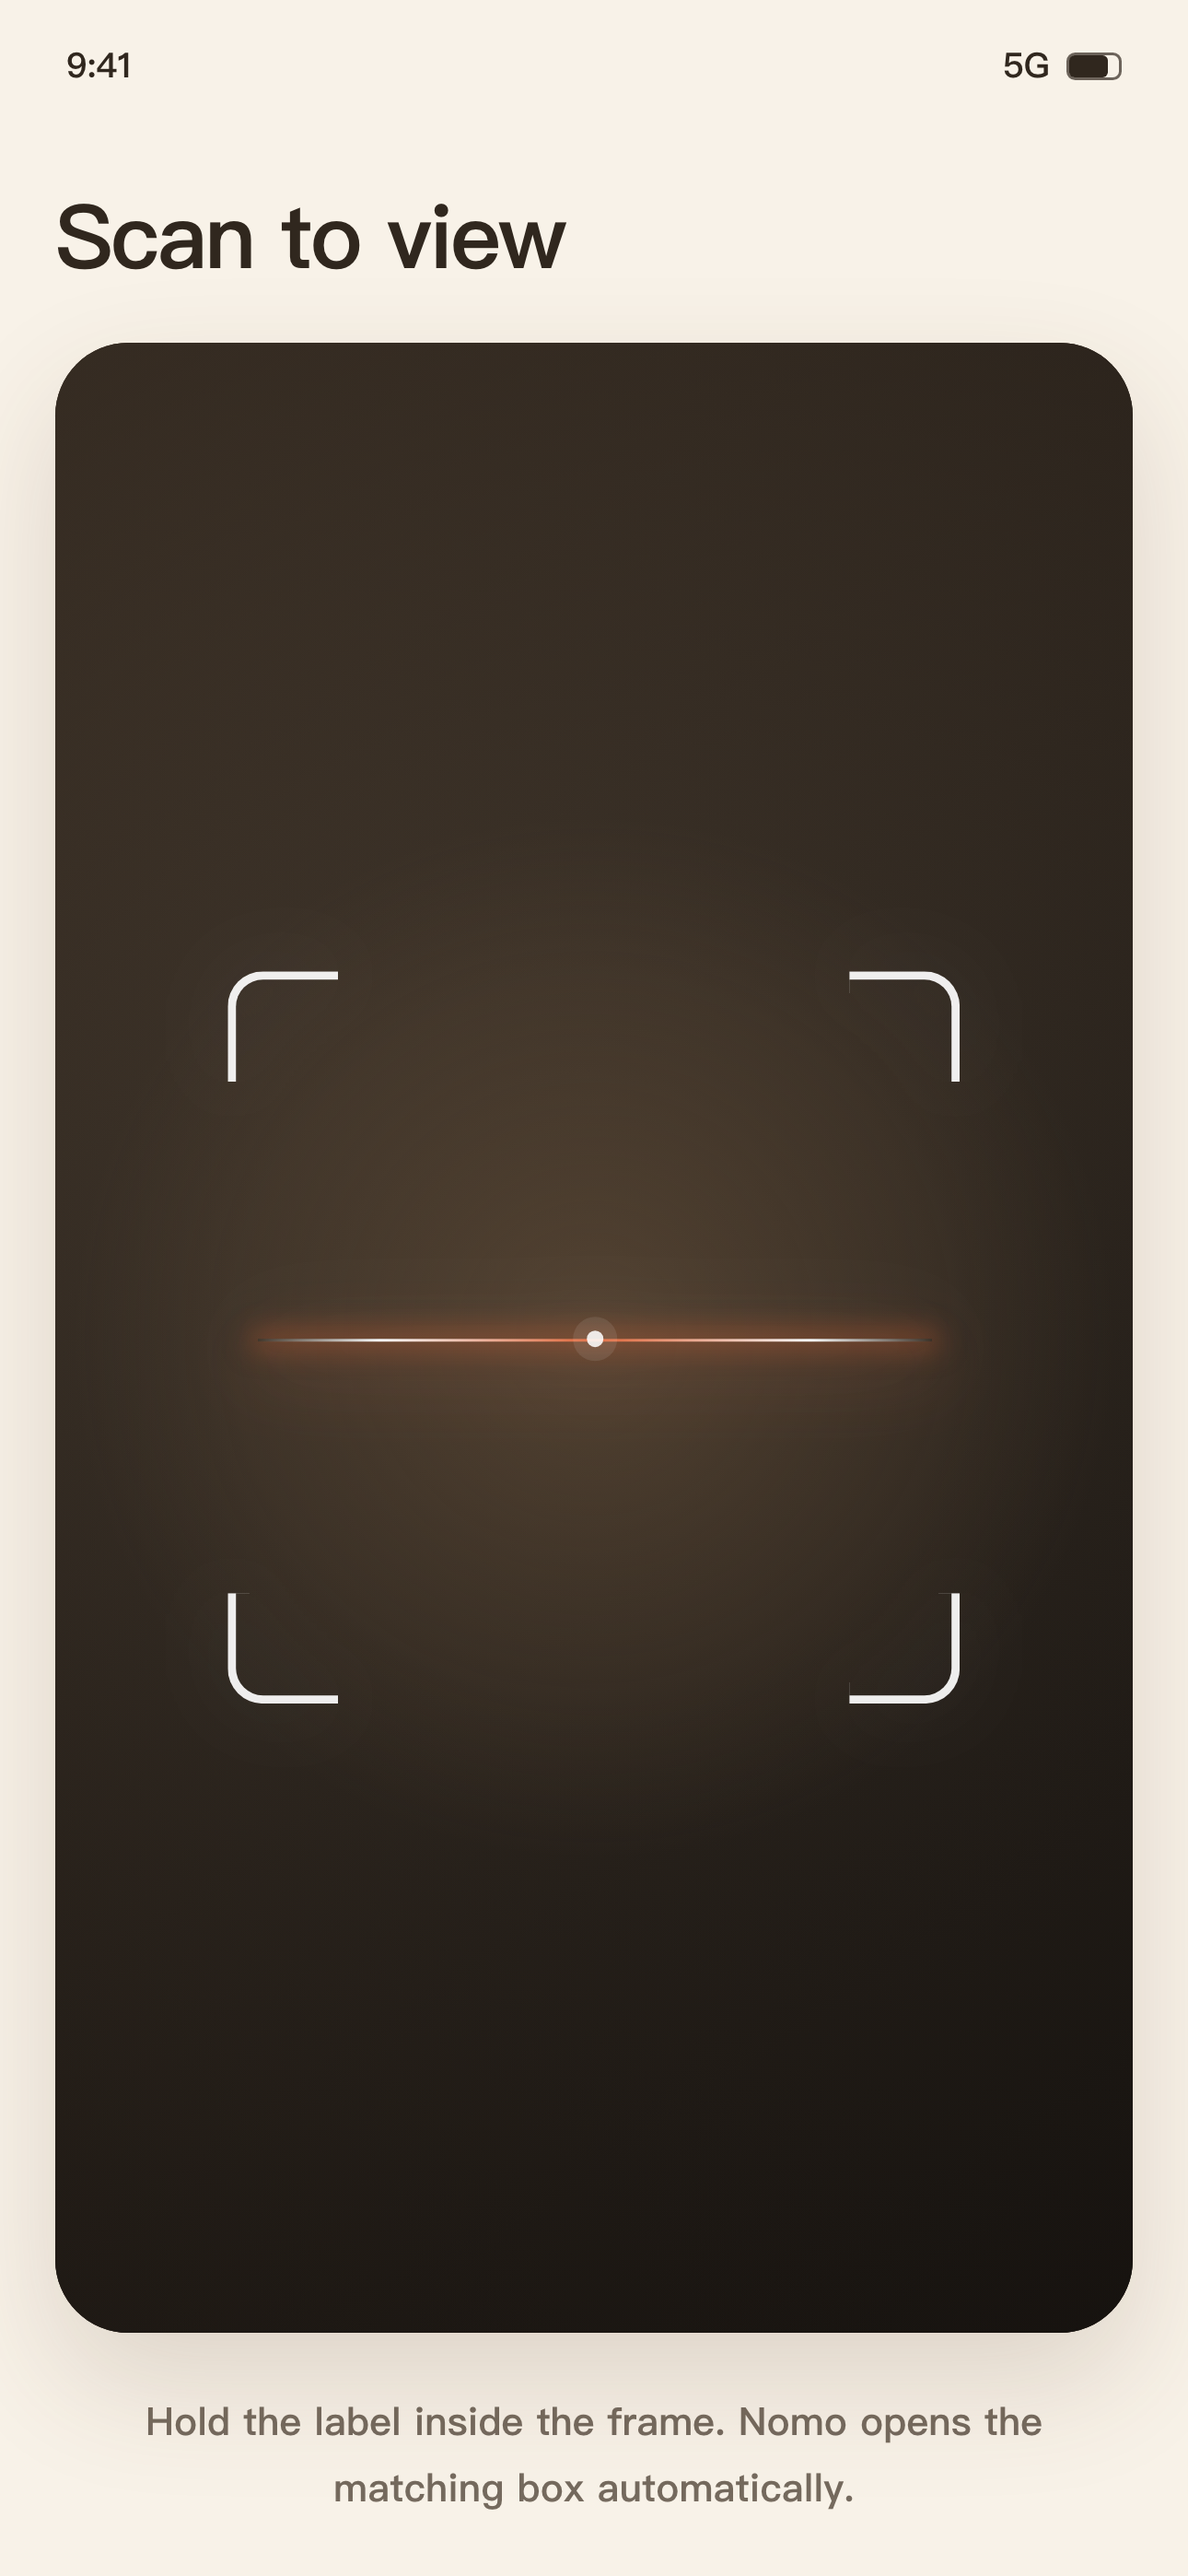
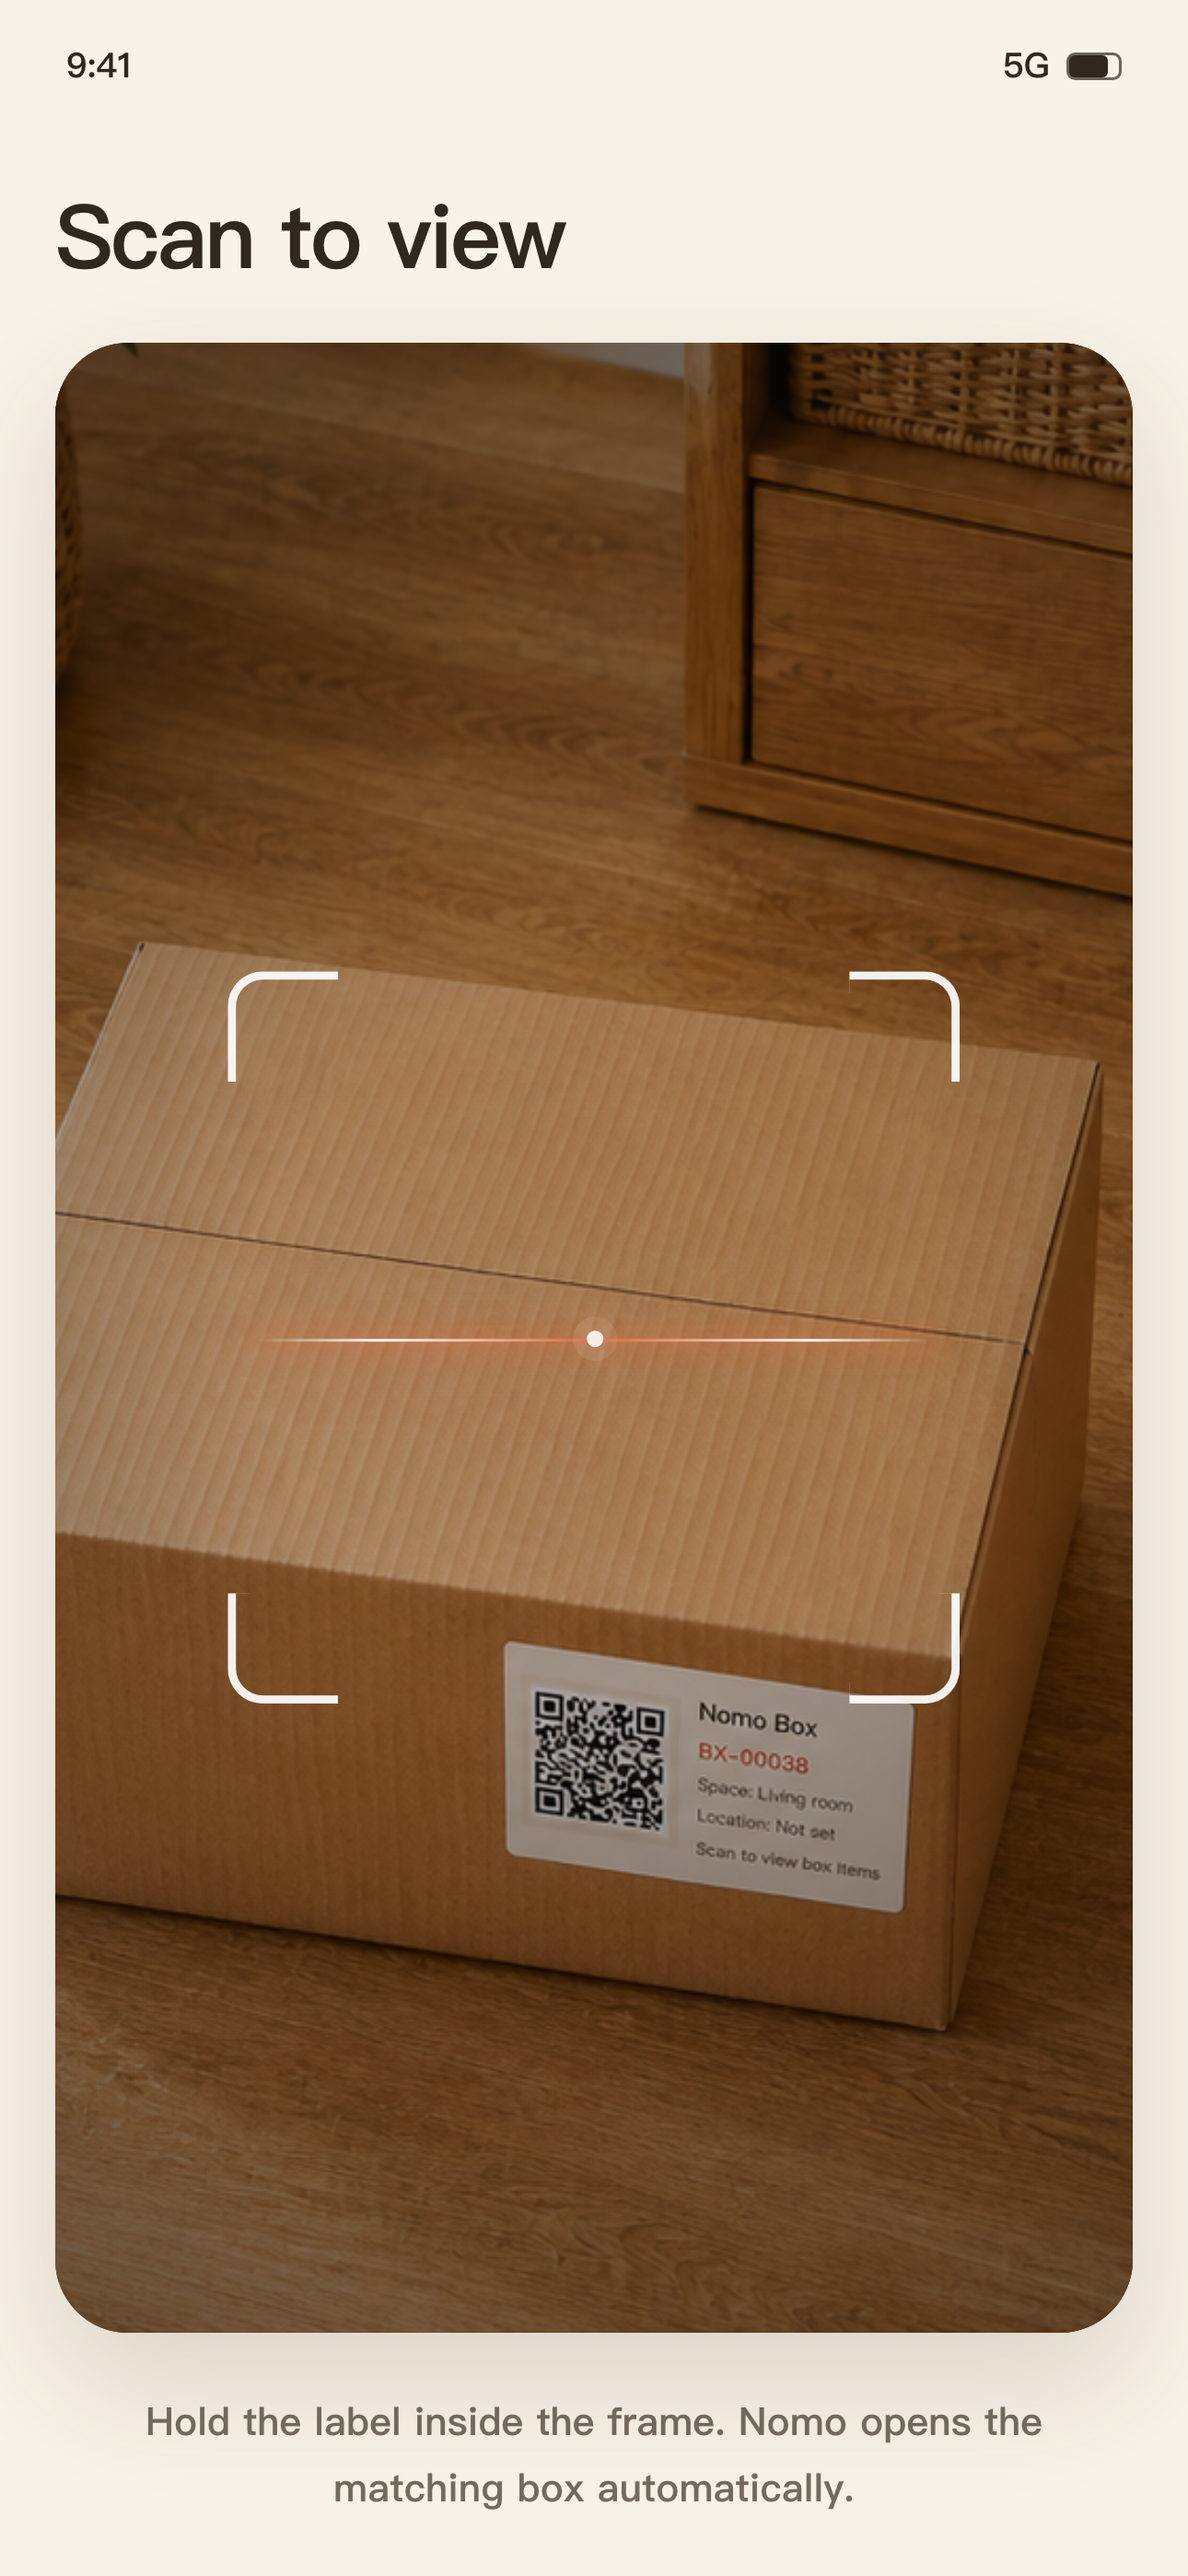
feat: show labeled box in scanner preview

diff --git a/apps/web/src/creative-video/CaptureStates.tsx b/apps/web/src/creative-video/CaptureStates.tsx
@@ -76,7 +76,7 @@ function BoxDetailsState() {
 }
 
 function ScannerState() {
-  return <MobileFrame><section className="grid h-full grid-rows-[auto_minmax(0,1fr)_auto] px-5 pb-5 pt-12"><header className="py-5"><h1 className="text-[2rem] font-extrabold">Scan to view</h1></header><div className="scanner-camera relative overflow-hidden rounded-[1.65rem] bg-ink shadow-float" aria-label="QR scanner view"><div className="absolute inset-0 bg-[radial-gradient(circle_at_50%_50%,rgb(122_95_68_/_45%),transparent_46%),linear-gradient(145deg,rgb(76_63_50),rgb(24_21_18))]" /><div className="scanner-feedback pointer-events-none absolute inset-0" aria-hidden="true"><span className="scanner-vignette absolute inset-0" /><span className="scanner-target absolute top-1/2 left-1/2 aspect-square w-[68%] -translate-x-1/2 -translate-y-1/2"><span className="scanner-corner scanner-corner-top-left absolute top-0 left-0" /><span className="scanner-corner scanner-corner-top-right absolute top-0 right-0" /><span className="scanner-corner scanner-corner-bottom-left absolute bottom-0 left-0" /><span className="scanner-corner scanner-corner-bottom-right absolute right-0 bottom-0" /><span className="scanner-beam absolute right-[4%] left-[4%] h-px" /><span className="scanner-focus-dot absolute top-1/2 left-1/2 size-1.5 -translate-x-1/2 -translate-y-1/2 rounded-full" /></span></div></div><p className="px-4 pt-5 text-center text-sm font-semibold leading-6 text-muted">Hold the label inside the frame. Nomo opens the matching box automatically.</p></section></MobileFrame>
+  return <MobileFrame><section className="grid h-full grid-rows-[auto_minmax(0,1fr)_auto] px-5 pb-5 pt-12"><header className="py-5"><h1 className="text-[2rem] font-extrabold">Scan to view</h1></header><div className="scanner-camera relative overflow-hidden rounded-[1.65rem] bg-ink shadow-float" aria-label="QR scanner view"><img className="absolute inset-0 h-full w-full object-cover" src="/creative/box-1-closed-labeled-user.png" alt="Live scanner view of the labeled Box 1" /><div className="absolute inset-0 bg-black/25" /><div className="scanner-feedback pointer-events-none absolute inset-0" aria-hidden="true"><span className="scanner-vignette absolute inset-0" /><span className="scanner-target absolute top-1/2 left-1/2 aspect-square w-[68%] -translate-x-1/2 -translate-y-1/2"><span className="scanner-corner scanner-corner-top-left absolute top-0 left-0" /><span className="scanner-corner scanner-corner-top-right absolute top-0 right-0" /><span className="scanner-corner scanner-corner-bottom-left absolute bottom-0 left-0" /><span className="scanner-corner scanner-corner-bottom-right absolute right-0 bottom-0" /><span className="scanner-beam absolute right-[4%] left-[4%] h-px" /><span className="scanner-focus-dot absolute top-1/2 left-1/2 size-1.5 -translate-x-1/2 -translate-y-1/2 rounded-full" /></span></div></div><p className="px-4 pt-5 text-center text-sm font-semibold leading-6 text-muted">Hold the label inside the frame. Nomo opens the matching box automatically.</p></section></MobileFrame>
 }
 
 export function CaptureState({ state }: { state: CaptureStateName }) {

diff --git a/apps/web/src/creative-video/CaptureStates.test.tsx b/apps/web/src/creative-video/CaptureStates.test.tsx
@@ -28,6 +28,7 @@ test('box details and scanner states contain only controlled product data', () =
   rerender(<CaptureState state="scanner" />)
   expect(screen.getByRole('heading', { name: 'Scan to view' })).toBeVisible()
   expect(screen.getByLabelText('QR scanner view')).toBeVisible()
+  expect(screen.getByRole('img', { name: 'Live scanner view of the labeled Box 1' })).toHaveAttribute('src', '/creative/box-1-closed-labeled-user.png')
 })
 
 test('camera and confirmation share one real packing photo with explicit choices', () => {
